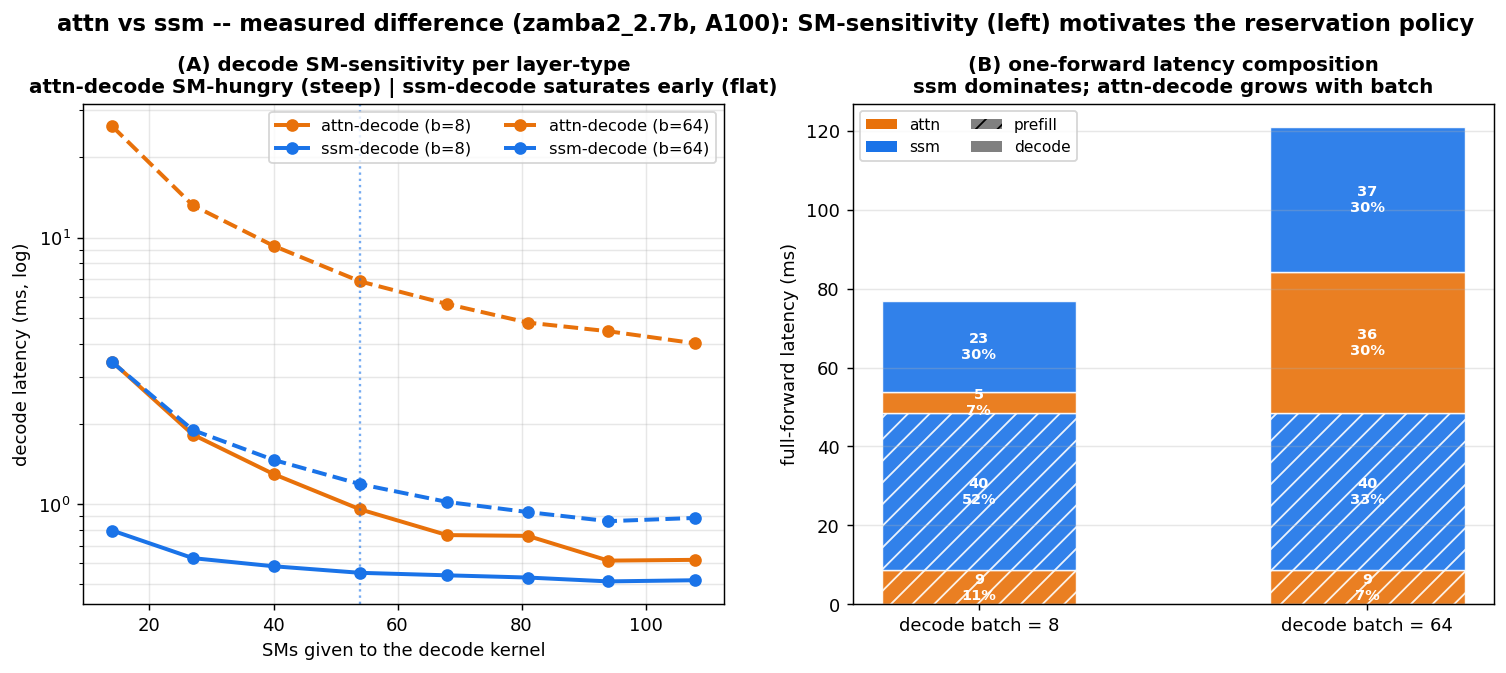
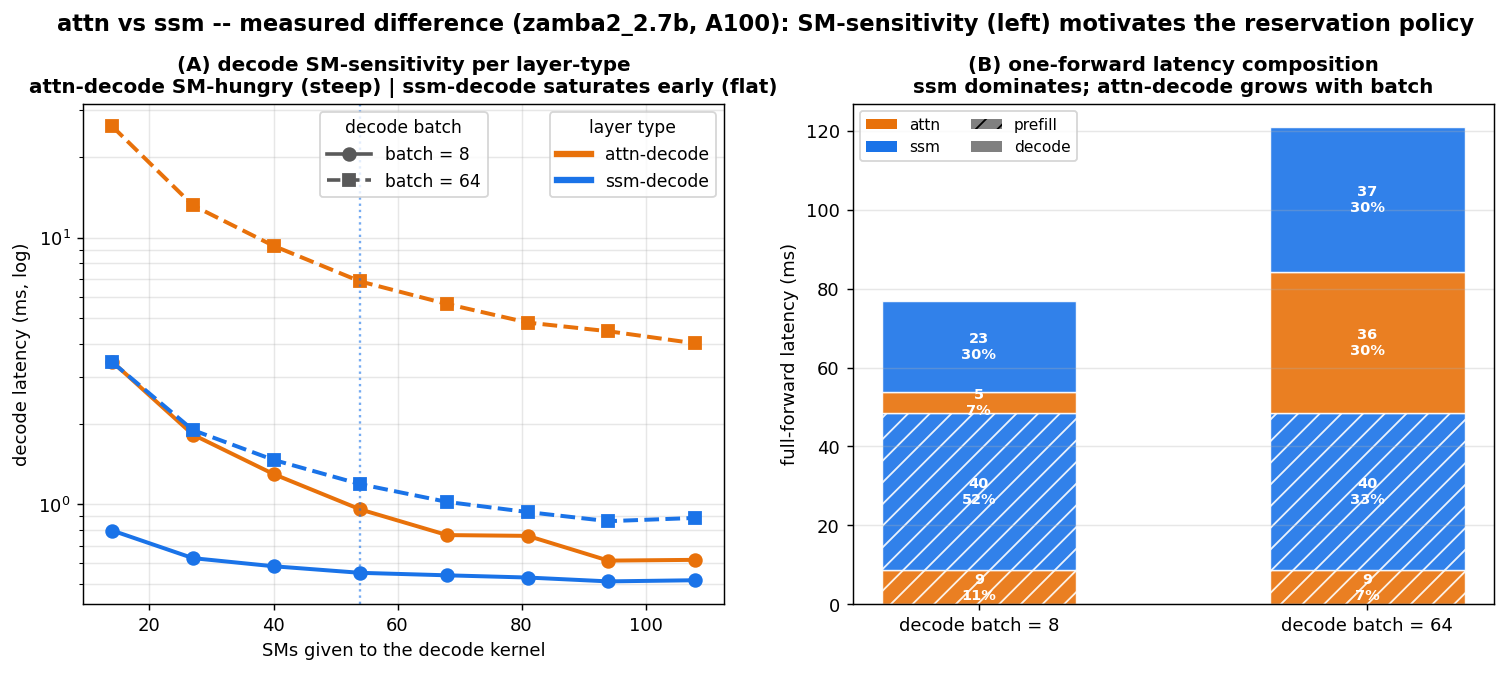
attn_ssm_diff: make batch distinguishable in panel A legend
Batch was encoded only by line-style (solid/dashed) which was hard to tell apart in the legend.
Now: b8 = solid + circle marker, b64 = dashed + square marker, AND split into two legends
(layer type by color; decode batch by line-style/marker) so both dimensions are unambiguous.

Changed region(s): [[0.1873, 0.156, 0.4681, 0.312]]

diff --git a/workspace/characterization/experiments/e6_queue_sim/make_attn_ssm_diff_fig.py b/workspace/characterization/experiments/e6_queue_sim/make_attn_ssm_diff_fig.py
@@ -12,6 +12,7 @@ import matplotlib
 matplotlib.use("Agg")
 import matplotlib.pyplot as plt
 from matplotlib.patches import Patch
+from matplotlib.lines import Line2D
 
 _CHAR = os.path.abspath(os.path.join(os.path.dirname(__file__), "..", ".."))
 ATT, SSM = "#e8710a", "#1a73e8"
@@ -29,19 +30,28 @@ e5 = load(f"{_CHAR}/results_v2/e5_sim_b8_opt/serving_coexec_full_{M}_a100_sxm4_8
 fig, (axA, axB) = plt.subplots(1, 2, figsize=(14, 5))
 
 # (A) decode latency vs SM count -- SM-sensitivity
-for b, ls in [(8, "-"), (64, "--")]:
+#     color = layer-type (attn/ssm); line-style+marker = decode batch (b8 solid o / b64 dashed s)
+for b, ls, mk in [(8, "-", "o"), (64, "--", "s")]:
     g = e3[(e3.context_len == 4096) & (e3.batch == b)]
     for lt, c in [("attn", ATT), ("ssm", SSM)]:
         s = g[g.layer_type == lt].sort_values("sm_count")
-        axA.plot(s.sm_count, s.latency_ms, ls, color=c, lw=2.2, ms=6, marker="o",
-                 label=f"{lt}-decode (b={b})")
+        axA.plot(s.sm_count, s.latency_ms, ls, color=c, lw=2.2, ms=7, marker=mk)
 axA.set_yscale("log")
 axA.set_xlabel("SMs given to the decode kernel"); axA.set_ylabel("decode latency (ms, log)")
 axA.set_title("(A) decode SM-sensitivity per layer-type\n"
               "attn-decode SM-hungry (steep) | ssm-decode saturates early (flat)",
               fontsize=11, fontweight="bold")
 axA.axvline(54, color=SSM, ls=":", lw=1.3, alpha=0.6)   # ssm saturation marker (no text)
-axA.legend(fontsize=9, loc="upper right", ncol=2); axA.grid(alpha=0.3, which="both")
+# two separate legends so the two dimensions (layer-type by color, batch by style) are clear
+leg_type = axA.legend(handles=[Line2D([0], [0], color=ATT, lw=3.5), Line2D([0], [0], color=SSM, lw=3.5)],
+                      labels=["attn-decode", "ssm-decode"], loc="upper right", fontsize=9.5,
+                      title="layer type", title_fontsize=9.5)
+axA.add_artist(leg_type)
+axA.legend(handles=[Line2D([0], [0], color="0.35", lw=2, ls="-", marker="o", ms=7),
+                    Line2D([0], [0], color="0.35", lw=2, ls="--", marker="s", ms=7)],
+           labels=["batch = 8", "batch = 64"], loc="upper center", fontsize=9.5,
+           title="decode batch", title_fontsize=9.5, handlelength=2.6)
+axA.grid(alpha=0.3, which="both")
 
 # (B) one-forward latency composition
 pa = e5[e5.prefill_layer == "attn"].solo_prefill_ms.median()
